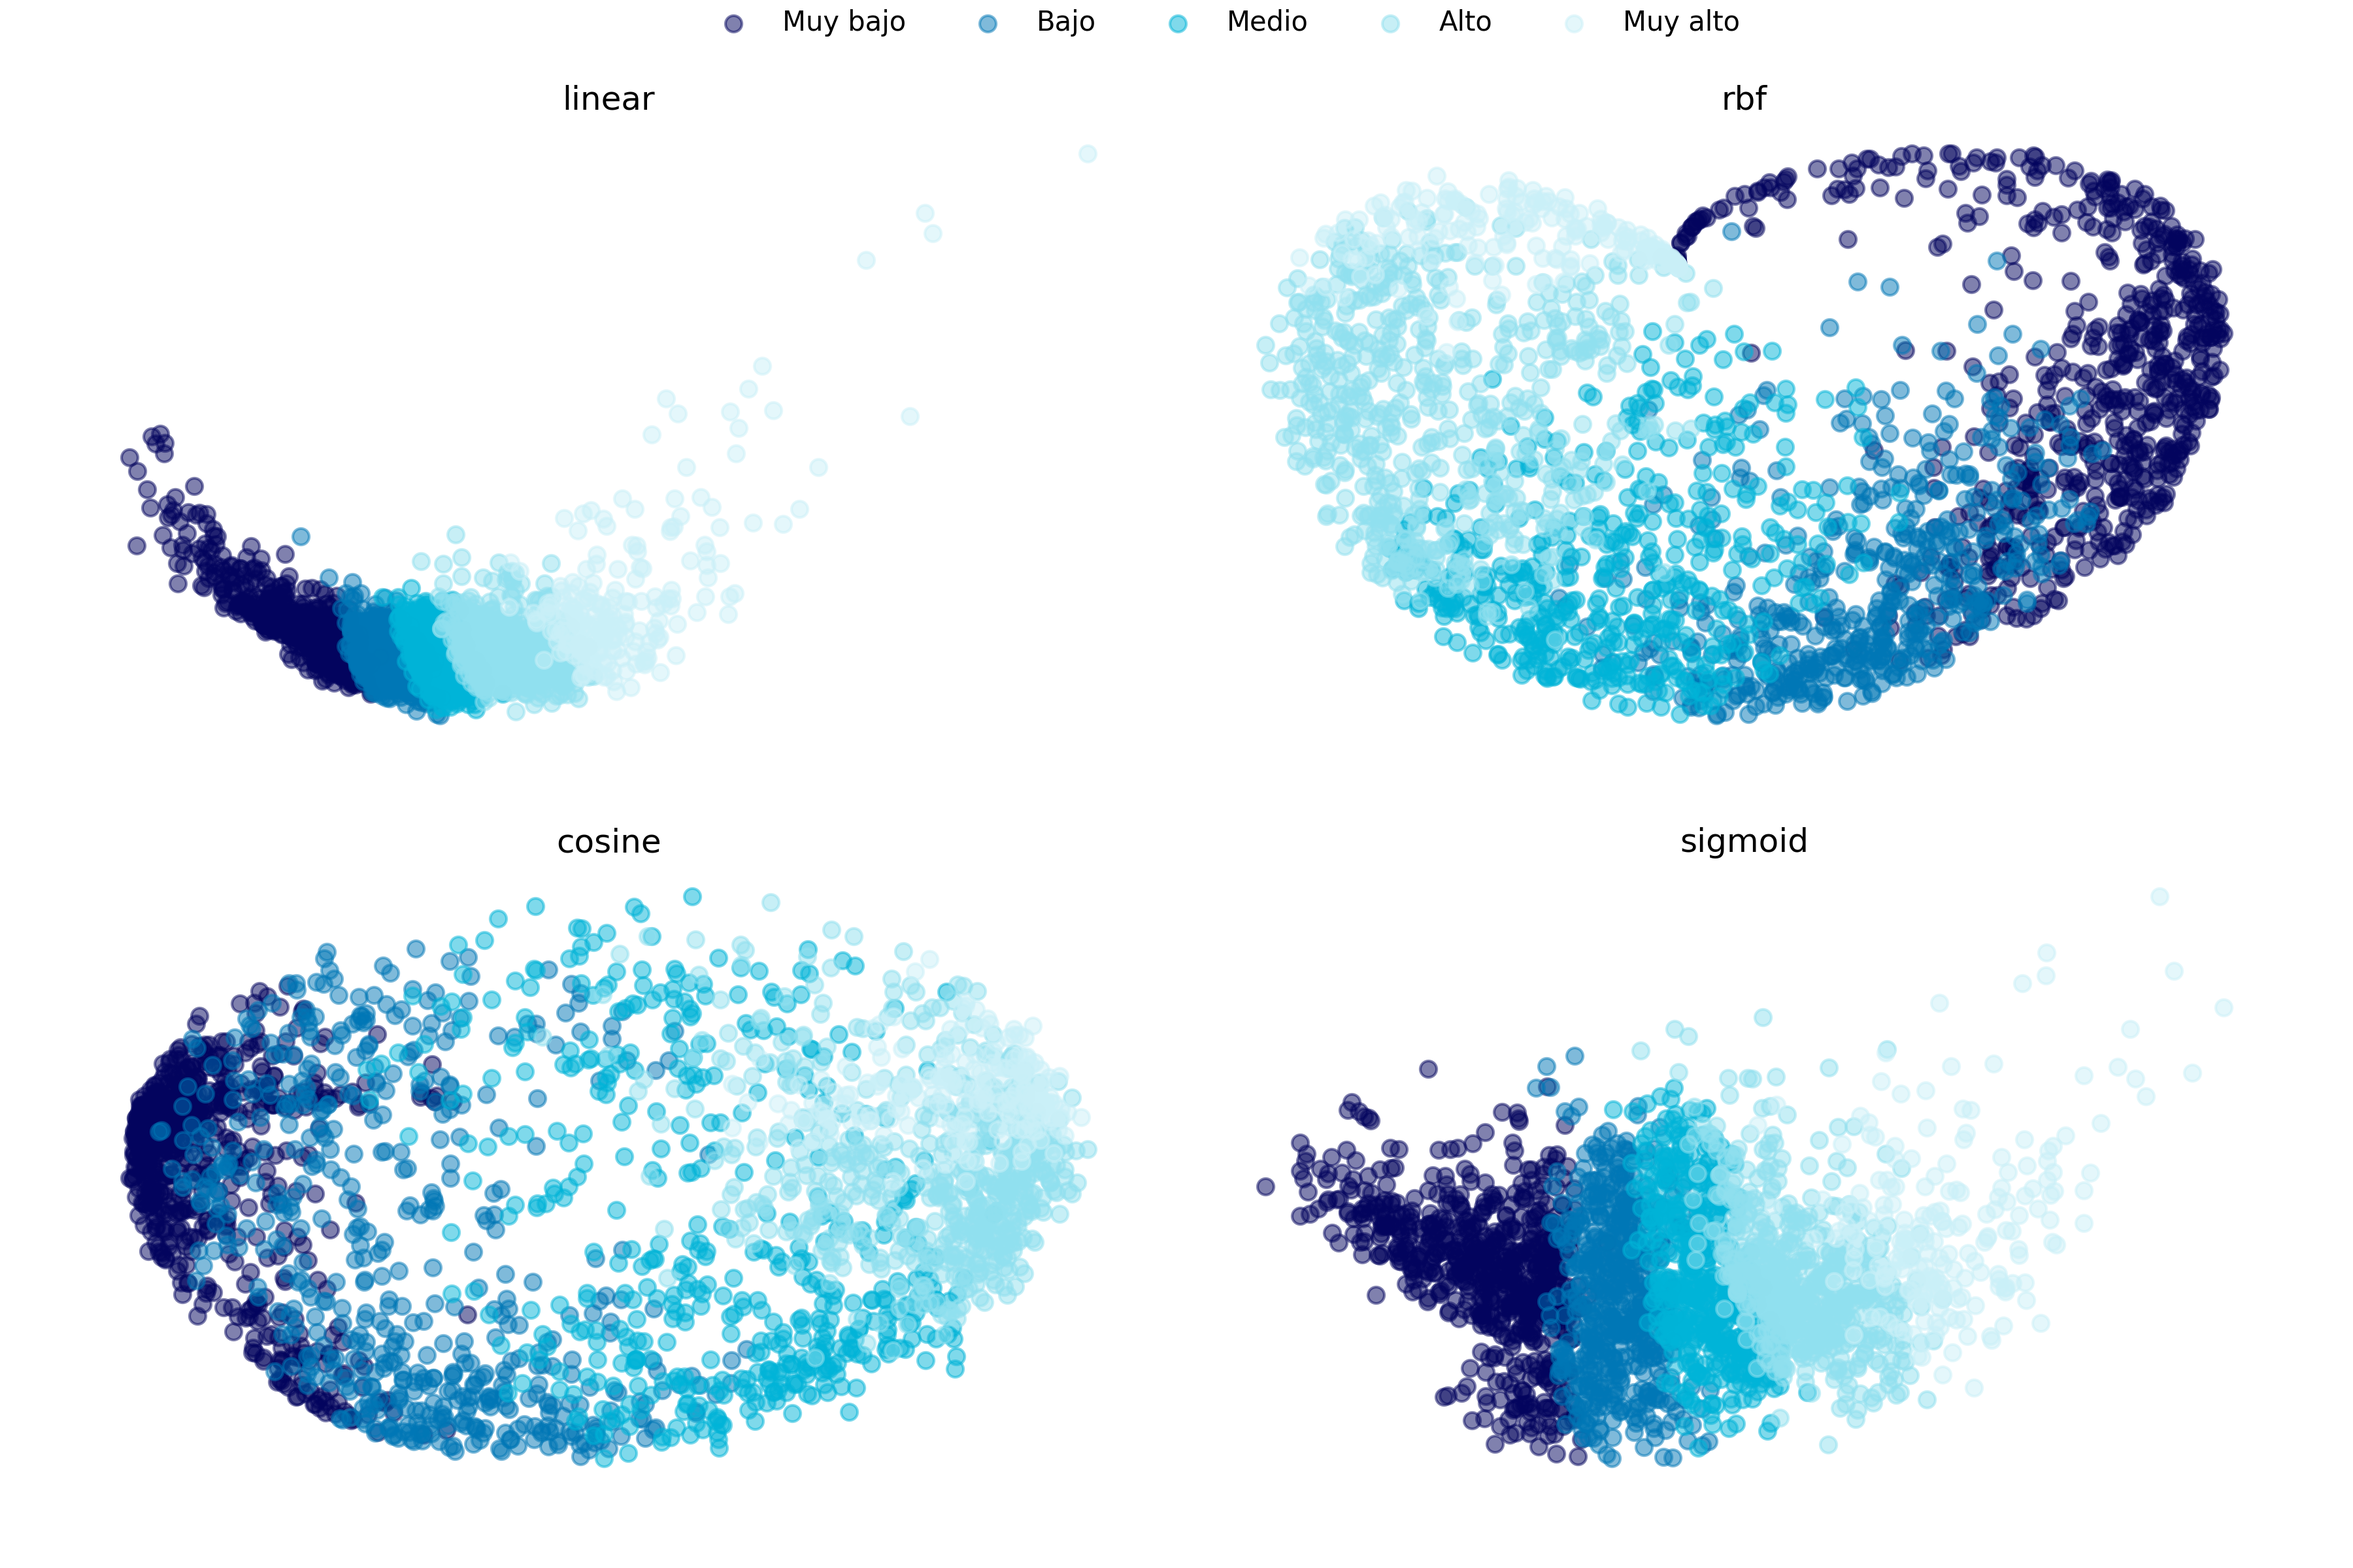
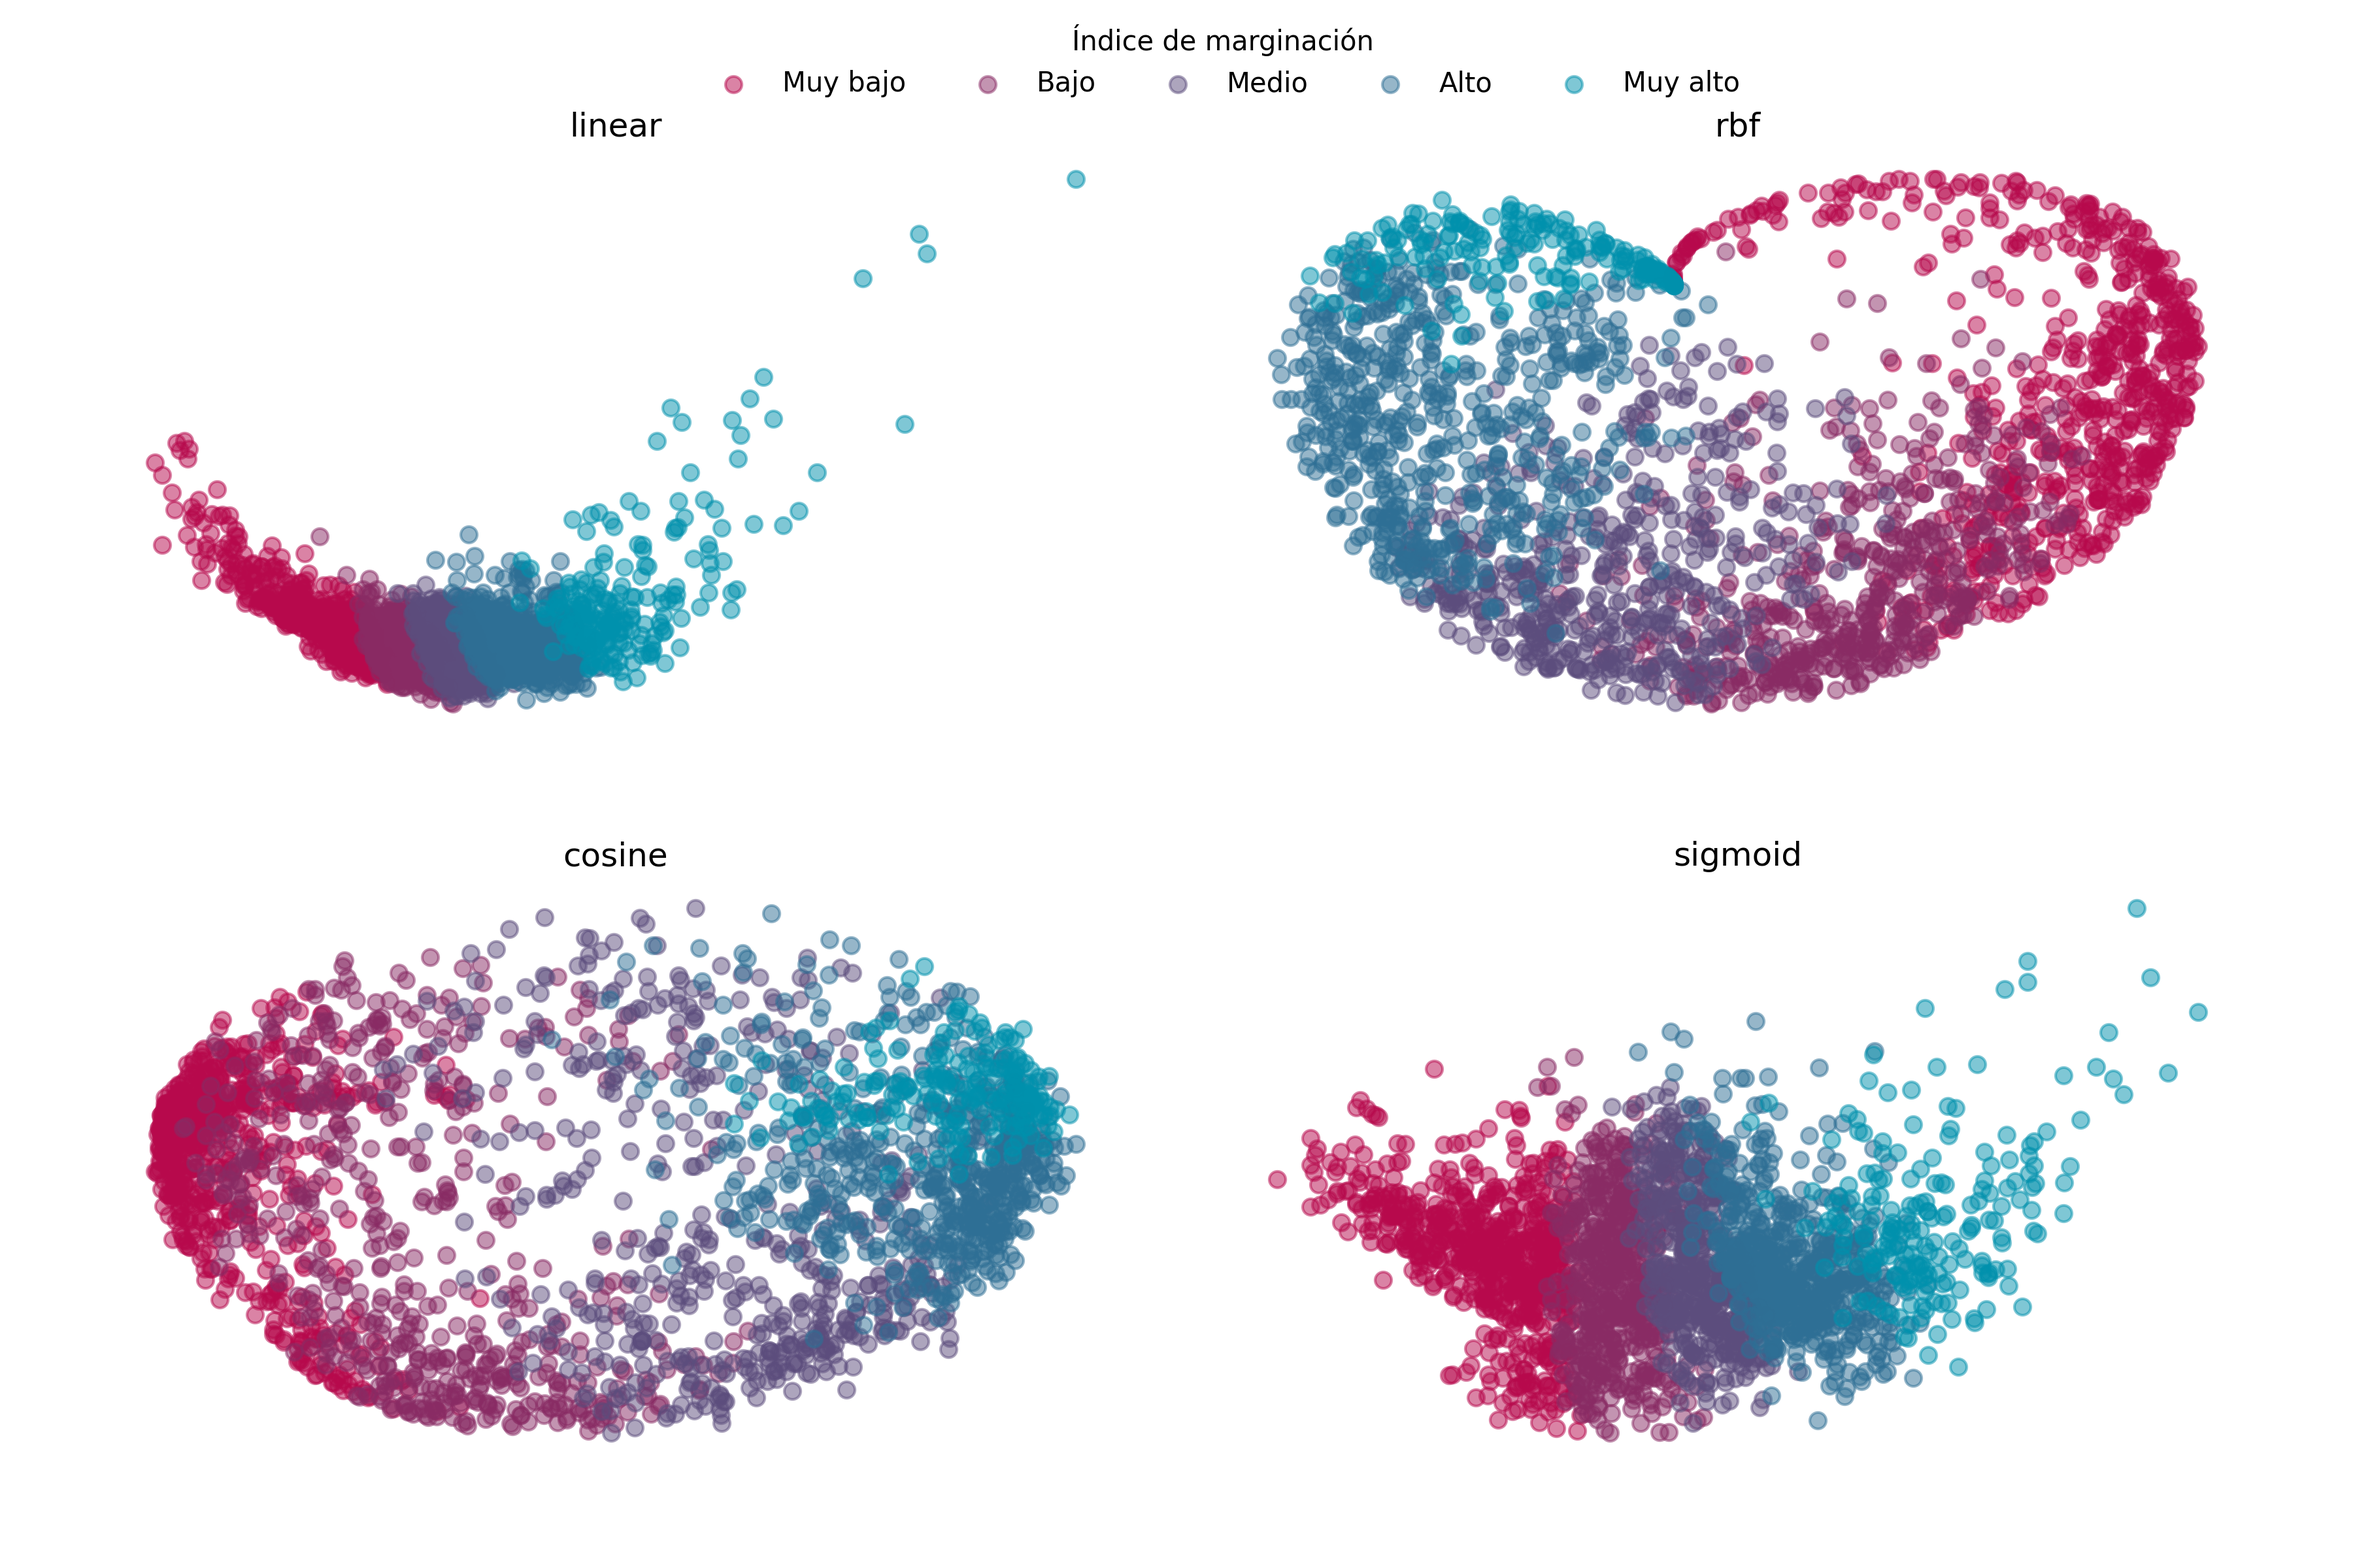
Add title legend

diff --git a/Scripts/PCA_2D.py b/Scripts/PCA_2D.py
@@ -4,17 +4,19 @@ Analisis de los datos usando el método de PCA en el caso de dos dimensiones
 Genera una gráfica con la visualziacion de los puntos en 2D y guarda los eigenvalores resultantes en un archivo.
 """
 
+from dataclasses import dataclass
 from Modules.data_model import data_class, join
-from Modules.params import get_params
+from Modules.params import define_filenames_2D, get_params
 from Modules.pca import PCA_model
 import matplotlib.pyplot as plt
 
 # Lectura de los parametros
 params = get_params()
-# PCA file results name
-params["file graphics"] = "PCA_2D.png"
-# PCA file graphics name
-params["file results"] = "PCA_2D.csv"
+model_name = "PCA"
+# Definicion de los archivos resultantes
+params = define_filenames_2D(params,
+                             model_name)
+dataset = params[model_name]
 # Lectura de los datos
 data = data_class(params)
 # Inicializacion del modelo
@@ -23,8 +25,8 @@ pca = PCA_model()
 # Resultados
 fig, axs = plt.subplots(2, 2, figsize=(12, 8))
 axs = axs.flatten()
-for ax, kernel in zip(axs, params["PCA"]["kernels"]):
-    pca.create(params["PCA"]["2D"]["components"],
+for ax, kernel in zip(axs, dataset["kernels"]):
+    pca.create(dataset["2D"]["components"],
                kernel)
     pca.run(data.embedding)
     vectors = pca.get_eigenvectors()
@@ -42,12 +44,13 @@ for ax, kernel in zip(axs, params["PCA"]["kernels"]):
                    c=color,
                    label=classes)
         ax.axis("off")
-plt.tight_layout(pad=3)
 handles, labels = ax.get_legend_handles_labels()
 fig.legend(handles, labels,
+           title="Índice de marginación",
            frameon=False,
            ncol=len(data.classes),
-           bbox_to_anchor=(0.75, 1.01))
+           bbox_to_anchor=(0.75, 1))
+plt.tight_layout(pad=4)
 # Guardado de cada grafica
 filename = join(params["path graphics"],
                 params["file graphics"])
